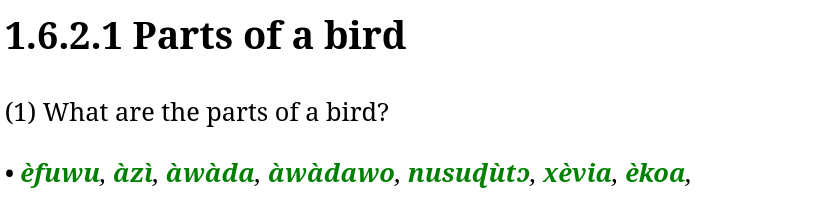
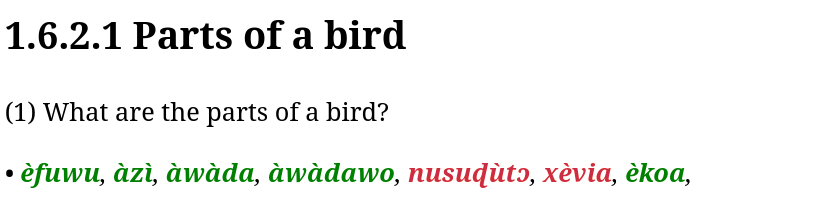
Fix some bugs to make code reproducible

Changed region(s): [[0.4843, 0.7642, 0.7567, 0.8774]]

diff --git a/src/gnn/gnn.py b/src/gnn/gnn.py
@@ -2009,12 +2009,14 @@ class ExecutionEnvironment(object):
         # Create the node degree feature
         degree_feature = torch.zeros(len(self.word_node_names), 1)
         for node in self.word_node_names:
-            degree_feature[self.word_node_idx_by_name[node]] = self.G.degree(node)
+            degree_feature[self.word_node_idx_by_name[node]] = self.G.degree(
+                node)  # todo: subtract links to semantic domain questions
 
         # Create the weighted node degree feature
         weighted_degree_feature = torch.zeros(len(self.word_node_names), 1)
         for node in self.word_node_names:
-            weighted_degree_feature[self.word_node_idx_by_name[node]] = self.G.degree(node, weight='weight')
+            weighted_degree_feature[self.word_node_idx_by_name[node]] = self.G.degree(node,
+                                                                                      weight='weight')  # todo: subtract links to semantic domain questions
 
         # Create QID feature
         indices = []

diff --git a/src/dictionary_creator/dictionary_creator.py b/src/dictionary_creator/dictionary_creator.py
@@ -437,7 +437,6 @@ class DictionaryCreator(ABC):
             if os.path.isfile(sd_path):
                 self.sds_by_lang[lang] = pd.read_csv(sd_path)
             else:
-                print(f'WARNING: Unable to load {sd_path}')
                 # create empty dataframe
                 self.sds_by_lang[lang] = pd.DataFrame(
                     {'cid': [], 'category': [], 'question_index': [], 'question': [], 'answer': []})

diff --git a/README.md b/README.md
@@ -5,13 +5,15 @@ This repository is the official implementation of my master's thesis.
 ![image](results/new_dictionary_entries_eng.png)
 ![image](results/new_dictionary_entries_gej.png)
 
-Existing (black) semantic domain dictionary entries in [FLEx](https://software.sil.org/fieldworks/flex) and newly
-predicted (green) ones: The upper image shows three entries that GUIDE added to the English dictionary and the lower
+Existing (black) semantic domain dictionary entries in [FLEx](https://software.sil.org/fieldworks/flex) and correct (
+green) and incorrect (red)
+new predictions: The upper image shows three entries that GUIDE added to the English dictionary and the lower
 image shows seven entries for the same semantic domain question in the newly created Mina-Gen dictionary.
 
 
 ## Requirements
 
+You need the [Conda](https://docs.conda.io/en/latest/) package manager to install the requirements.
 To install the requirements:
 
 ```setup
@@ -20,7 +22,8 @@ chmod +x setup.sh
 ```
 
 Download the Multilingual Alignment Graph (MAG)
-from [here](https://drive.google.com/file/d/1XITKTJ2YIII89kNQPtxFr9TwvIX9IyPW/view?usp=sharing).
+from [here](https://drive.google.com/file/d/1XITKTJ2YIII89kNQPtxFr9TwvIX9IyPW/view?usp=sharing) and put it into the main
+folder.
 
 ## Preprocessing Pipeline
 
@@ -29,11 +32,11 @@ If you want to reproduce the preprocessing, run:
 
 ```preprocess
 conda activate myenv
-python -m src.preprocess --output-directory data/0_state/
-python -m src.gnn.refine_mag --input-mag-directory data/0_state/ --output-mag-file final_mag.cpickle
+python -m src.preprocess --output-directory data/0_state/ && python -m src.gnn.refine_mag --input-mag-directory data/0_state/ --output-mag-file final_mag.cpickle
 ```
 
-Note that this does not include the Igbo and Gen-Mina languages because the source Bible translations are copyrighted.
+Note that the preprocessing does not include the Igbo and Gen-Mina languages because the source Bible translations are
+copyrighted.
 
 ## Training
 
